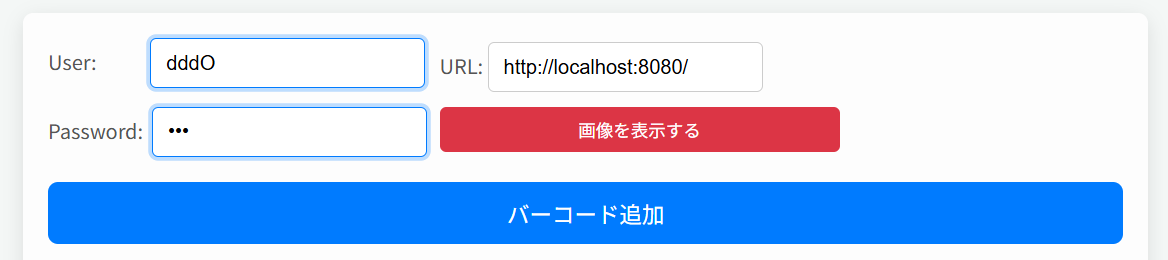
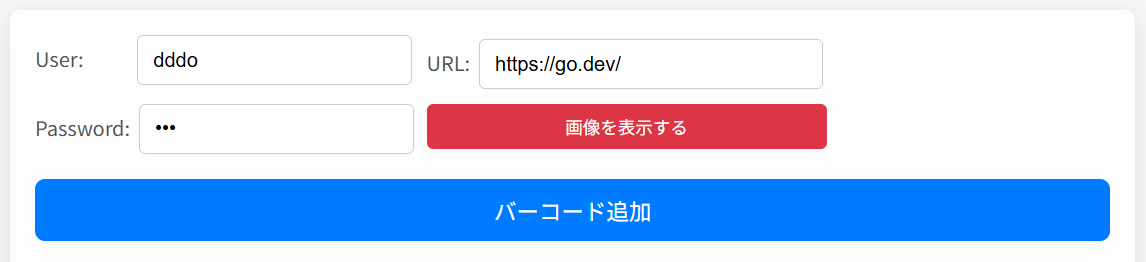
up

diff --git a/README.md b/README.md
@@ -16,7 +16,7 @@ https://ddddddo.github.io/barcode/
 ![](./image1.png)
 
 ### URL用QRコードを隠せます
-- 生成したURL用QRコードにBasic認証情報が含まれていると、このページを共有できないので、専用ボタンを押すことでQRコードを隠せます
+- 生成したURL用QRコードにBasic認証情報が含まれていると、このページをスクショで共有できないので、専用ボタンを押すことでQRコードを隠せます
 
 ![](./image2.png)
 
@@ -25,3 +25,10 @@ https://ddddddo.github.io/barcode/
 - 複数バーコードがあると、スキャンするときに別のバーコードをスキャンしてしまうことがあります。そういったとき、対象バーコードをマウスオーバーすることで拡大・他のバーコードをぼかして、スキャンしやすくします
 
 ![](./image3.png)
+
+### ページ内容をURLで共有できます
+- クエリパラメータに、フォームに入力されたURLと各バーコード生成元の文字列を反映しています。それを使い、このページを復元します
+- ただし、`User` / `Password` は共有するとダメなのでクエリパラメータに反映していません
+
+- これまでのイメージは、以下にアクセスすると表示されます
+    - **[https://ddddddo.github.io/barcode/?url=https%3A%2F%2Fgo.dev%2F&i1=4971633002005&i2=ITEM-1234&i3=1A-2B-3C&i4=aaaa&i5=bbb](https://ddddddo.github.io/barcode/?url=https%3A%2F%2Fgo.dev%2F&i1=4971633002005&i2=ITEM-1234&i3=1A-2B-3C&i4=aaaa&i5=bbb)**
